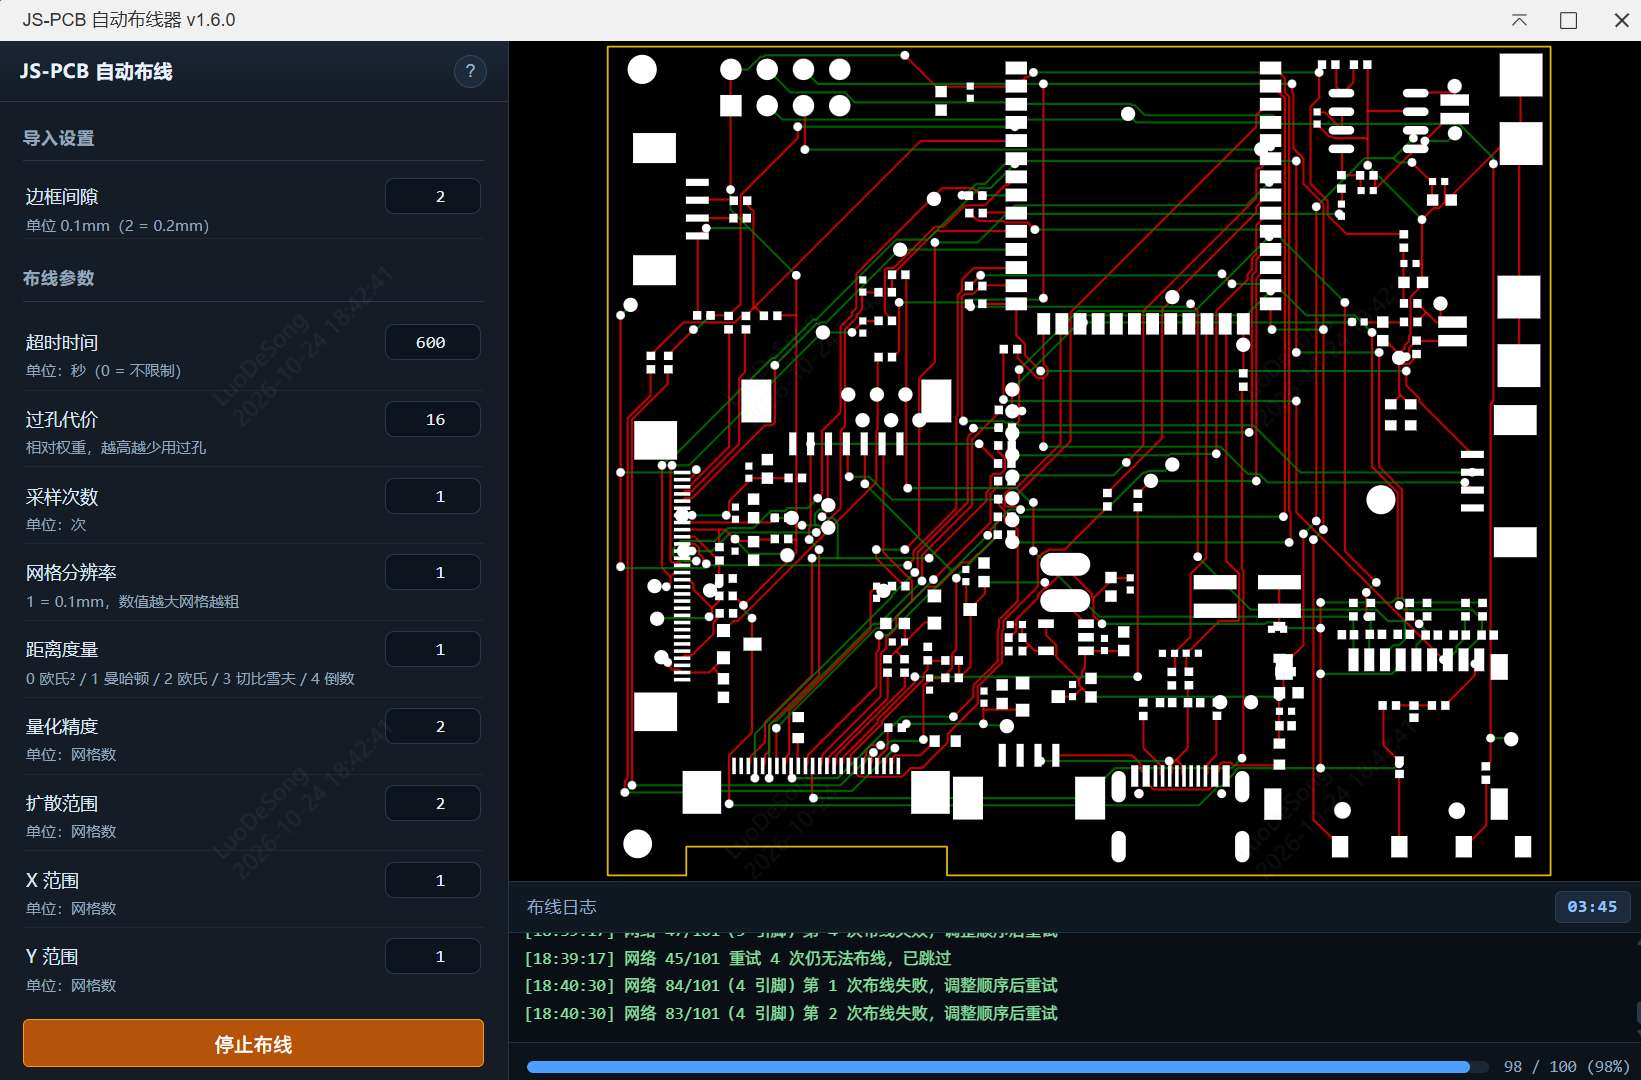
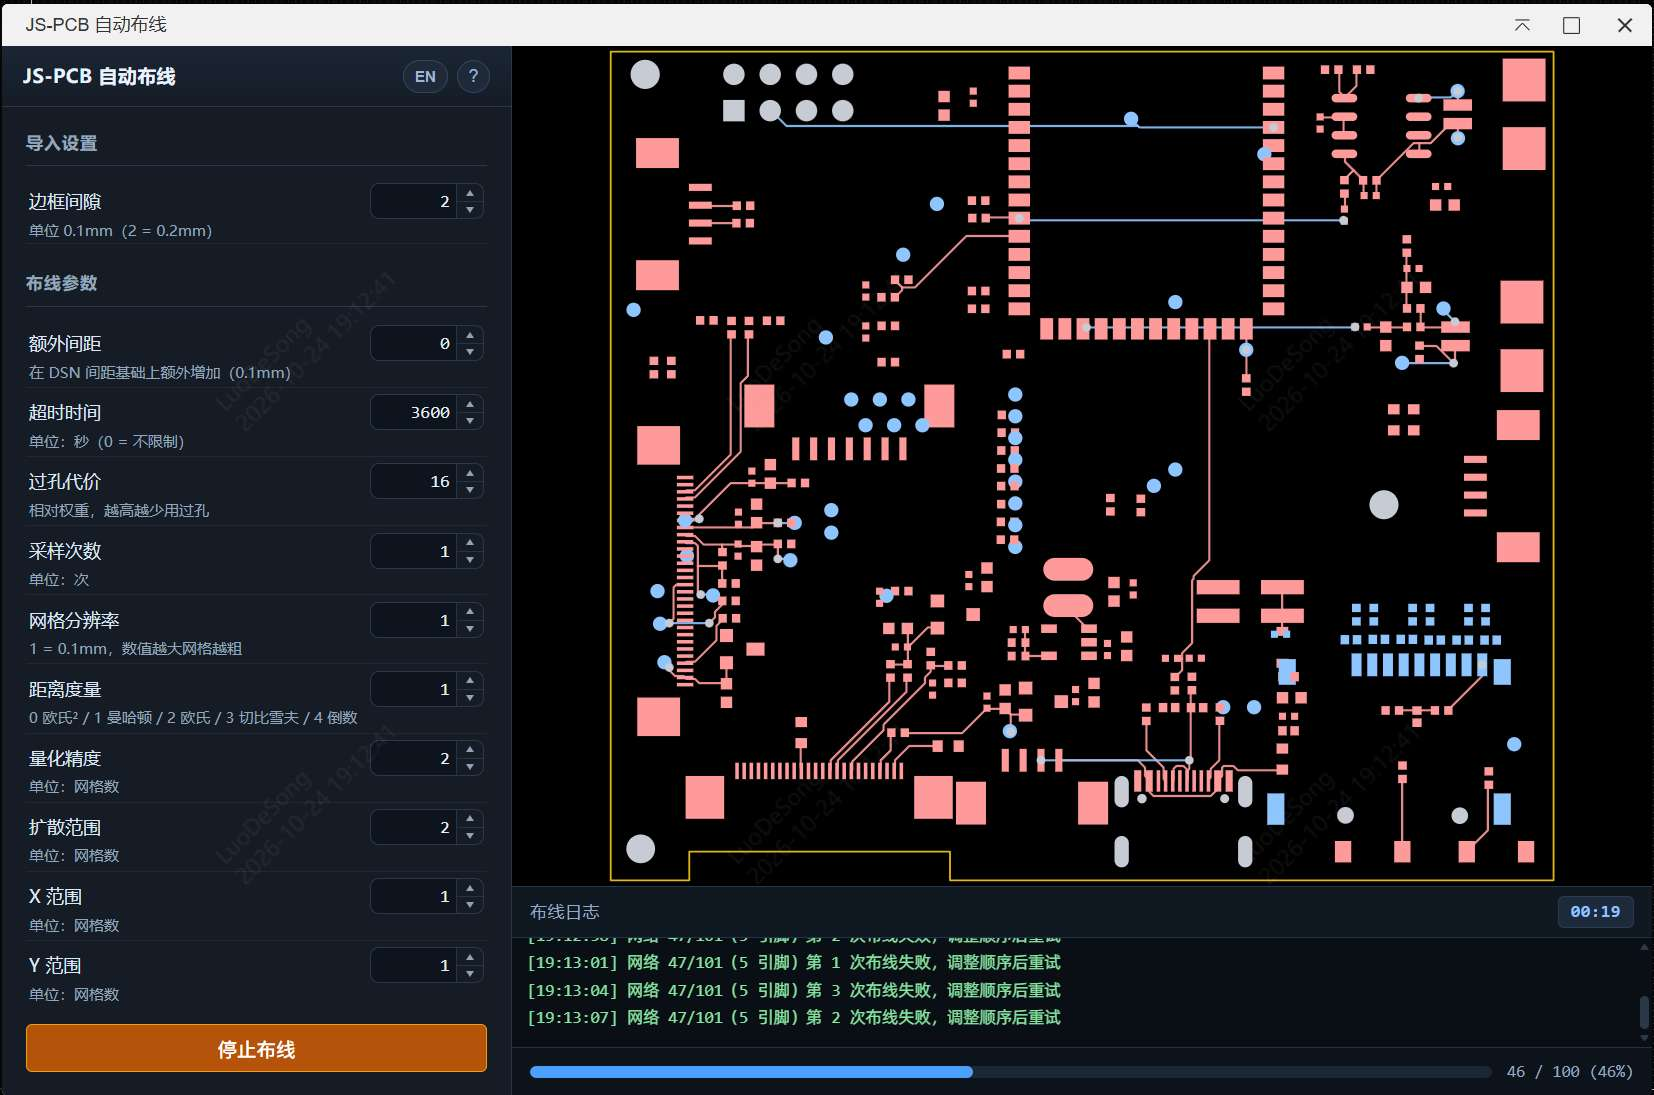
fix: 修正弹窗标题与分层配色，更新中英截图
- 打开 iframe 时传入本地化窗口标题，不再显示默认“弹窗”
- 顶层焊盘/走线改为淡红色，底层改为淡蓝色，通孔焊盘/过孔为淡灰色
- 移除预览区颜色图例；README/CHANGELOG 同步
- 更新中英文界面截图，补充英文截图 dialog-en.jpg

diff --git a/iframe/jspcb/index.html b/iframe/jspcb/index.html
@@ -2,7 +2,7 @@
 <html lang="zh-CN">
 <head>
 	<meta charset="utf-8">
-	<title data-i18n="ui.windowTitle">JS-PCB 自动布线器 v1.6.0</title>
+	<title data-i18n="ui.dialogTitle">JS-PCB 自动布线</title>
 	<script type="text/javascript" src="/iframe/jspcb/d3.v4.min.js"></script>
 	<script type="text/javascript" src="/iframe/jspcb/mymath.js"></script>
 	<script type="text/javascript" src="/iframe/jspcb/view.js"></script>
@@ -499,39 +499,6 @@
 			align-items: center;
 		}
 
-		.pcb-legend {
-			position: absolute;
-			top: 12px;
-			left: 12px;
-			z-index: 5;
-			display: flex;
-			gap: 12px;
-			padding: 6px 10px;
-			border-radius: 6px;
-			background: rgba(10, 16, 24, 0.75);
-			border: 1px solid #223247;
-			font-size: 11px;
-			color: #b9c8da;
-			pointer-events: none;
-		}
-
-		.pcb-legend span {
-			display: flex;
-			align-items: center;
-			gap: 5px;
-		}
-
-		.pcb-legend .dot {
-			width: 8px;
-			height: 8px;
-			border-radius: 50%;
-			display: inline-block;
-		}
-
-		.pcb-legend .top { background: #f87171; }
-		.pcb-legend .bottom { background: #4ade80; }
-		.pcb-legend .thru { background: #e5e7eb; }
-
 		/* Log panel (bottom of preview area) */
 		#log_panel {
 			flex: 0 0 20%;
@@ -767,11 +734,6 @@
 	<div class="content">
 		<div id="pcb_view">
 			<!-- SVG 将被渲染在这里 -->
-		</div>
-		<div class="pcb-legend">
-			<span><i class="dot top"></i><span data-i18n="ui.legendTop">顶层焊盘</span></span>
-			<span><i class="dot bottom"></i><span data-i18n="ui.legendBottom">底层焊盘</span></span>
-			<span><i class="dot thru"></i><span data-i18n="ui.legendThru">通孔焊盘</span></span>
 		</div>
 		<div id="log_panel">
 			<div class="log-title">

diff --git a/iframe/jspcb/view.js b/iframe/jspcb/view.js
@@ -62,15 +62,15 @@ var js_pcb = js_pcb || {};
 
 		//create layers, last layer is the terminals layer
 		let layers = [];
-		let layer_colors = ["red", "green", "blue", "yellow", "cyan", "magenta"];
+		let layer_colors = ["#ff9a9a", "#8ec5ff", "#facc15", "#c7ccd4", "#f472b6", "#a78bfa"];
 		for (let layer = 0; layer < depth; ++layer)
 		{
 			layers.push(pcb.append("g")
 				.attr("stroke", layer_colors[layer % layer_colors.length])
-				.attr("stroke-opacity", 0.75));
+				.attr("stroke-opacity", 0.9));
 		}
 		layers.push(pcb.append("g")
-			.attr("stroke", "white"));
+			.attr("stroke", "#c7ccd4"));
 
 		//add tracks
 		for (let track of pcb_data[1])
@@ -113,11 +113,11 @@ var js_pcb = js_pcb || {};
 				[terminal_radius, terminal_gap, [terminal_x, terminal_y, terminal_z],  terminal_shape] = terminal;
 				// 按焊盘层着色：顶层红色、底层绿色、通孔（多层）白色
 				let terminal_layers = terminal[4] || [];
-				let terminal_color = "#e5e7eb";
+				let terminal_color = "#c7ccd4";
 				if (terminal_layers.length === 1)
 				{
-					if (terminal_layers[0] === 0) terminal_color = "#f87171";
-					else if (terminal_layers[0] === 1) terminal_color = "#4ade80";
+					if (terminal_layers[0] === 0) terminal_color = "#ff9a9a";
+					else if (terminal_layers[0] === 1) terminal_color = "#8ec5ff";
 				}
 				if (!terminal_shape.length)
 				{
@@ -154,7 +154,7 @@ var js_pcb = js_pcb || {};
 							.attr("cx", path[node][0])
 							.attr("cy", path[node][1])
 							.attr("r", via_radius)
-							.attr("fill", "white");
+							.attr("fill", "#c7ccd4");
 					}
 					terminal_z = path[node][2];
 				}

diff --git a/src/index.ts b/src/index.ts
@@ -24,9 +24,11 @@ export function about(): void {
 
 export async function startAutoRouteIFrame(): Promise<void> {
 	console.log('[autorouter][iframe] open');
+	const title = eda.sys_I18n.text('ui.dialogTitle');
 	await eda.sys_IFrame.openIFrame('/iframe/jspcb/index.html', 1100, 700, 'jspcb-autorouter', {
 		maximizeButton: true,
 		minimizeButton: true,
+		title: title,
 	});
 }
 

diff --git a/README.md b/README.md
@@ -8,7 +8,7 @@
 
 - **自动载入 DSN**：打开窗口即获取当前 PCB 的 DSN 并显示预览。
 - **动态布线预览**：布线过程中实时更新焊盘和走线。
-- **焊盘分层显示**：顶层焊盘红色、底层焊盘绿色、通孔焊盘白色，并带图例。
+- **焊盘分层显示**：顶层焊盘淡红色、底层焊盘淡蓝色、通孔焊盘淡灰色；走线与同层焊盘同色。
 - **板框显示与约束**：绘制真实 DSN 板框（含凹槽），并作为布线障碍。
 - **开始 / 停止**：布线中按钮变为“停止布线”，可随时终止并再次开始。
 - **自动导入 SES**：布线完成后直接导入当前 PCB，无需手动操作。
@@ -100,13 +100,13 @@ npm run build
 An automatic PCB routing extension for **EasyEDA Pro (嘉立创EDA专业版)**, powered by the
 open-source [JS-PCB](https://github.com/vygr/JS-PCB) engine.
 
-![JsPCB Autorouter UI](images/dialog.jpg)
+![JsPCB Autorouter UI](images/dialog-en.jpg)
 
 ## Features
 
 - **Automatic DSN loading** — the dialog fetches and previews the current PCB's DSN as soon as it opens.
 - **Live routing preview** — pads and traces update while the router is working.
-- **Layer-aware preview** — top-layer pads are red, bottom-layer pads are green, through-hole pads are white.
+- **Layer-aware preview** — top-layer pads and traces are light red, bottom-layer pads and traces are light blue, through-hole pads are light gray.
 - **Board outline** — the real DSN board outline (including cut-outs) is drawn and used as a routing constraint.
 - **Start / stop** — the button switches to **Stop** while routing; you can stop and start again at any time.
 - **Automatic SES import** — the routing result is imported into the current PCB immediately after routing finishes.

diff --git a/CHANGELOG.md b/CHANGELOG.md
@@ -37,7 +37,7 @@
   导入失败时回退为保存文件（浏览器环境为下载）。
 - **动态布线预览**：布线过程中约每 250ms 回传一次当前 PCB 快照，实时看到走线增加。
 - **打开即预览**：DSN 载入后立即绘制板框与焊盘，不必等到开始布线。
-- **焊盘分层预览**：顶层焊盘红色、底层焊盘绿色、通孔焊盘白色，并显示图例。
+- **焊盘分层预览**：顶层焊盘/走线淡红色、底层焊盘/走线淡蓝色、通孔焊盘淡灰色。
 - **额外间距参数**：在 DSN 间距基础上统一增加间距（单位 0.1 mm）。
 - **板框预览**：预览中以黄色线条绘制 DSN 板框（含凹槽/异形边）。
 - **关于弹窗**：顶部新增 `?` 图标，点击显示版本、来源与功能说明。
@@ -55,7 +55,7 @@
 - 计时器从预览区右上角移到“布线日志”标题右侧。
 - DSN 载入、布线完成等状态改用吐司提示，移除侧栏内的状态文案。
 - 整体配色调整为更明亮的蓝调主题，提高文字与控件对比度。
-- 预览中的导线按层着色：层 0 红色、层 1 绿色。
+- 预览中的导线按层着色：顶层淡红色、底层淡蓝色。
 - 更换logo。
 
 ### 移除
